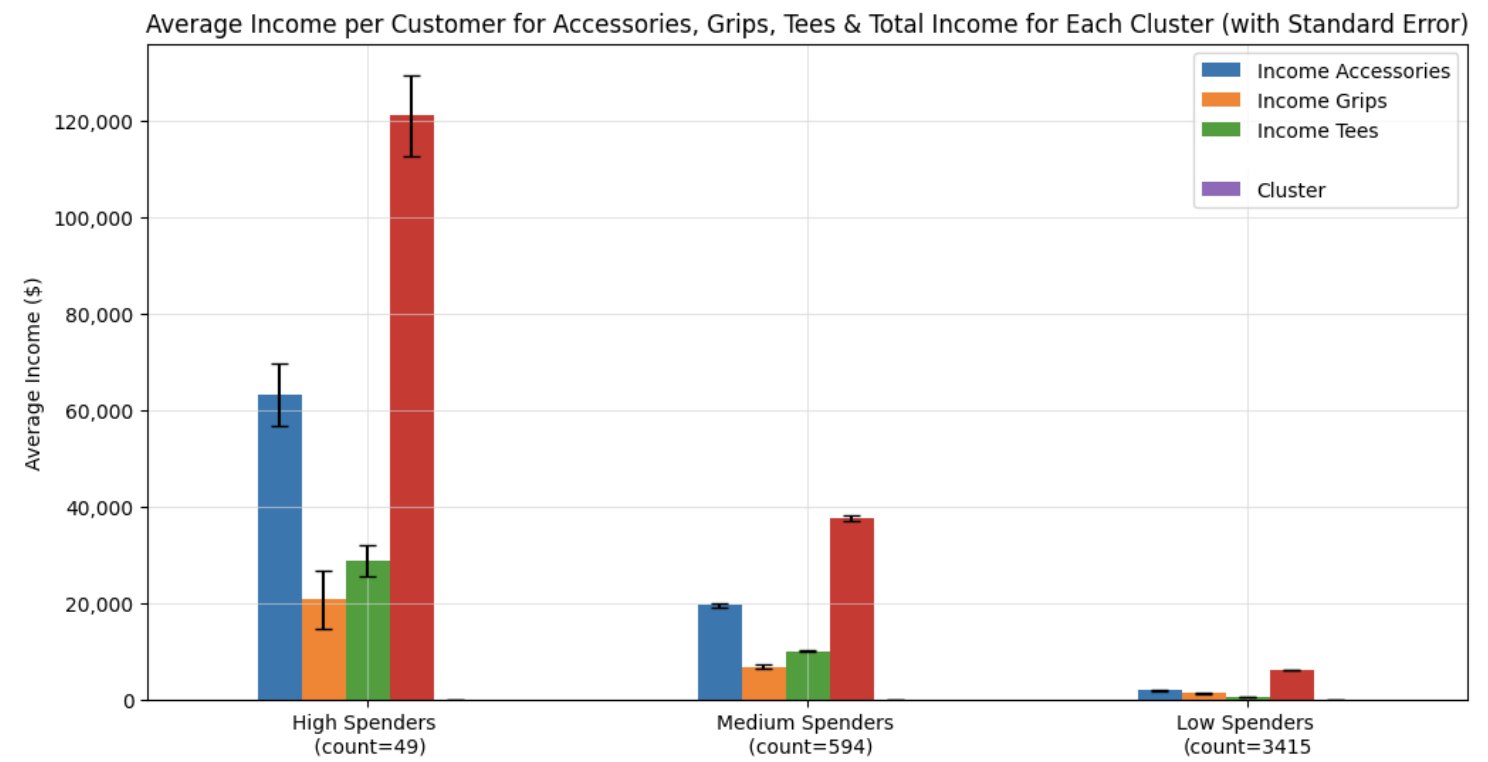
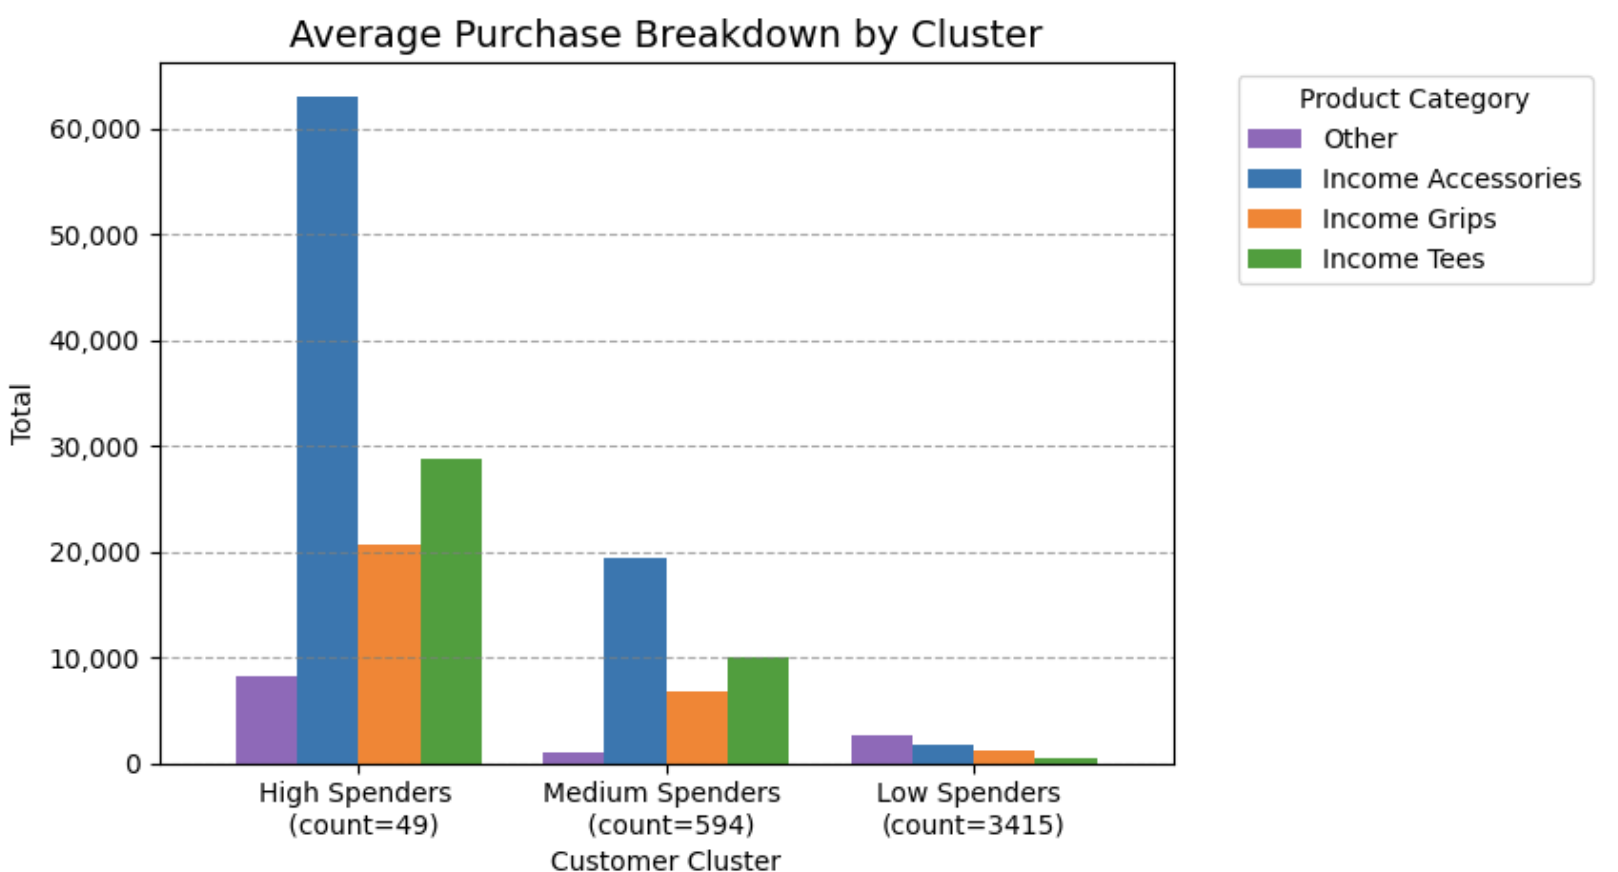
add project detail

diff --git a/docs/work/projects/pge.md b/docs/work/projects/pge.md
@@ -1,8 +1,59 @@
 # AI System Audit
 This was a graduate capstone project for my MS degree. I led a team that performed an audit on the internal AI system for a F500 regional energy company. 
 
+This project was under NDA, so I can't share the data or other specifics of the project. But I can share the process, my contribution and some of the data visualizations based on our analysis of survey data.
+
 ## Data Storytelling
 ![User Profiles](/assets/images/pge-user-profiles.png)
+I made this user persona graphic in our final presentation. It was based on data gathered in our VOC interviews, and informed by our company-wide survey. For the Confidence, Satisfaction and Frustration score graphs, I used data from our VOC interviews and made the charts in python. 
+ ```python
+import matplotlib.pyplot as plt
+import pandas as pd
+import matplotlib.patches as patches
 
-My teammate had a general idea of a graphic that he wanted, but couldn’t make. So in a virtual meeting, I had him describe the image he wanted. I asked him a lot of specific questions and sketched a basic mockup on my ipad. We used the mockup to discuss and refine the concepts and then I took my refined mockup and made the final graphic (above) for our slideshow. For the portraits, I worked back and forth between Procreate digital painting app and ChatGPT until I was happy with the images. The finished portraits use a combination of AI and digital painting. For the Confidence, Satisfaction and Frustration score graphs, I used data from our interviews and made the charts in python. 
+# Data
+data = {
+    "Alias": ["Arthur", "Chelsea", "Dylan", "Ethan", "Helena", "Hillary", "Paula", "Richard"],
+    "Confidence": [10, 9, 7, 6, 4, 3, 4, 9],
+    "Satisfaction": [8, 5, 5, 2, 1, 3, 4, 8],
+    "Frustration": [9, 9, 5, 10, 9, 9, 4, 3],
+}
+
+df = pd.DataFrame(data)
+
+# Function to create a vertical progress bar
+def draw_progress_bar(ax, x, value, color):
+    bar_height = 0.15
+    bar_width = 0.6
+    max_value = 10
+    for i in range(max_value):
+        rect = patches.Rectangle((x, 0.15 + i * bar_height), bar_width, bar_height - 0.03,
+                                 linewidth=1, edgecolor='white',
+                                 facecolor=color if i < value else 'white')
+        ax.add_patch(rect)
+
+# Create the figure
+fig, ax = plt.subplots(figsize=(12, 6))
+ax.set_xlim(0, len(df) * 3)
+ax.set_ylim(0, 8.5)
+ax.axis('off')
+
+# Colors
+colors = {
+    "Confidence": "steelblue",
+    "Satisfaction": "green",
+    "Frustration": "red",
+}
+
+# Plot progress bars with added spacing between bars
+for idx, row in df.iterrows():
+    x_base = idx * 3
+    draw_progress_bar(ax, x_base, row["Confidence"], colors["Confidence"])
+    draw_progress_bar(ax, x_base + 0.7, row["Satisfaction"], colors["Satisfaction"])
+    draw_progress_bar(ax, x_base + 1.4, row["Frustration"], colors["Frustration"])
+
+plt.tight_layout()
+plt.show()
+```
+I created this mockup (below) during a planning meeting for our final presentation. My team helped refine the concept based on this initial scketch and then I made final graphic. The user portrait line drawings were made with my initial quick sketches fed into AI image gen with digital painting clean-up. 
 ![User profile sketch](/assets/images/pge-sketch.png)

diff --git a/docs/work/projects/icp.md b/docs/work/projects/icp.md
@@ -1,18 +1,15 @@
 # ICP-Driven MedTech Company & Contact Intelligence Pipeline
-_Python, n8n, web-scraping, research_
-## ICP-Driven MedTech Company & Contact Intelligence Pipeline
+_Python, JavaScript, n8n, Excel, NLP / LLMs_
 
-**Tools:** Python, JavaScript, n8n, Excel, NLP / LLMs
-
-I designed and built an end-to-end data pipeline to **identify, enrich, and continuously monitor high-fit U.S. MedTech companies, innovators, and decision-makers** in advanced surgical devices and robotics.
+I designed and built an end-to-end data pipeline to identify, enrich, and continuously monitor high-fit U.S. MedTech companies, innovators, and decision-makers in advanced surgical devices and robotics.
 
 ### Problem
 
-A European MedTech startup focused on commercializing complex surgical robotics lacked a **reliable, current view of ICP-qualified U.S. companies and technical innovators**. Existing data was fragmented, outdated, and unsuitable for prioritized outreach or market analysis.
+A European MedTech startup focused on commercializing complex surgical robotics lacked a reliable, current view of ICP-qualified U.S. companies and technical innovators. Existing data was fragmented, outdated, and unsuitable for prioritized outreach or market analysis.
 
 ### Solution
 
-I built a **repeatable, automated intelligence pipeline** that converts noisy public and semi-structured sources into a clean, deduplicated, and prioritized ICP database.
+I built a repeatable, automated intelligence pipeline that converts noisy public and semi-structured sources into a clean, deduplicated, and prioritized ICP database.
 
 ### What I Built
 
@@ -39,7 +36,7 @@ I built a **repeatable, automated intelligence pipeline** that converts noisy pu
 
 ### Outcome
 
-- Produced a **high-signal ICP intelligence dataset** for sales, partnerships, and market research
+- Produced a high-signal ICP intelligence dataset for sales, partnerships, and market research
 - Significantly expanded U.S. company and contact coverage
 - Reduced manual research and data cleanup effort through automation
 
